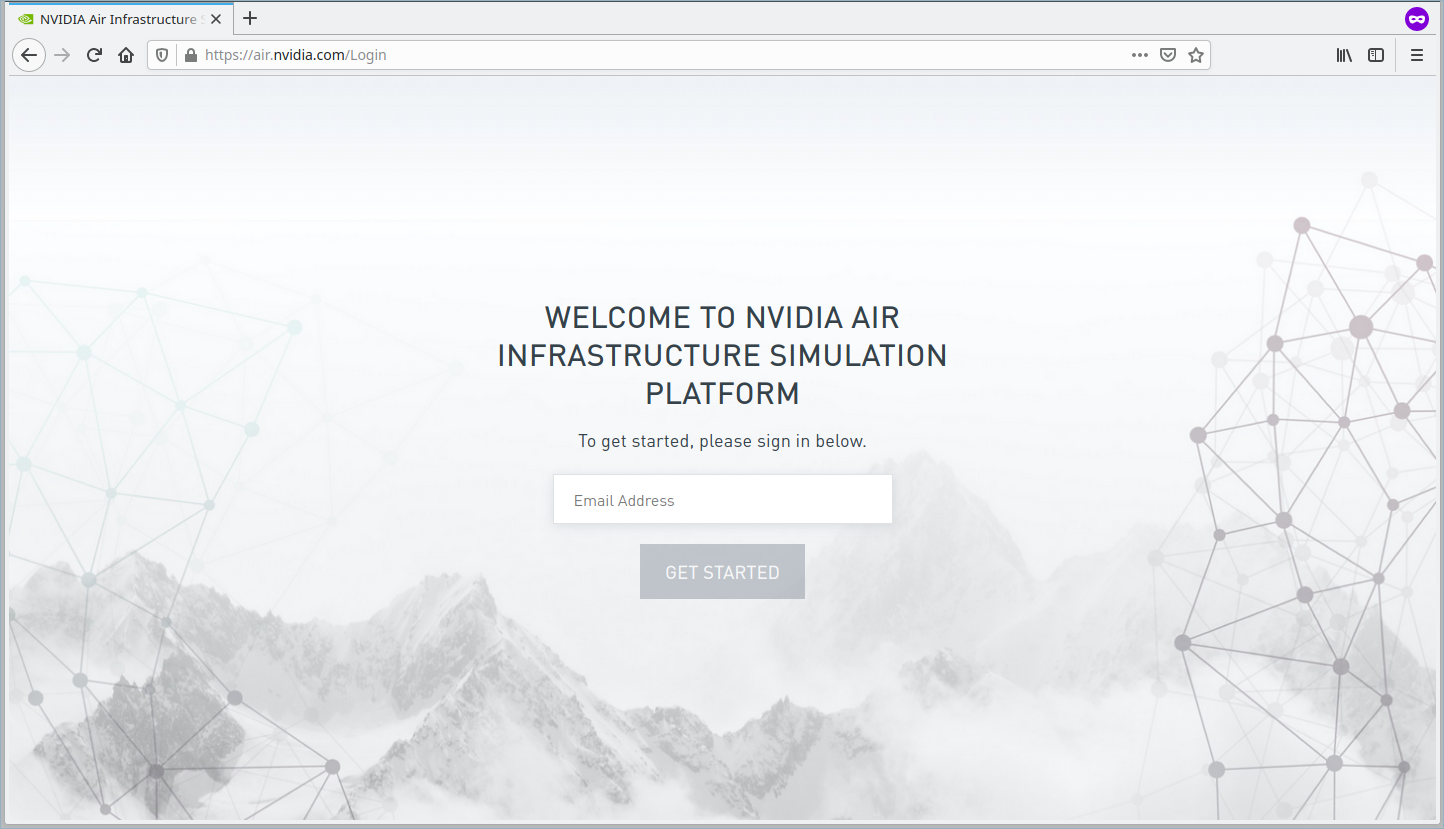
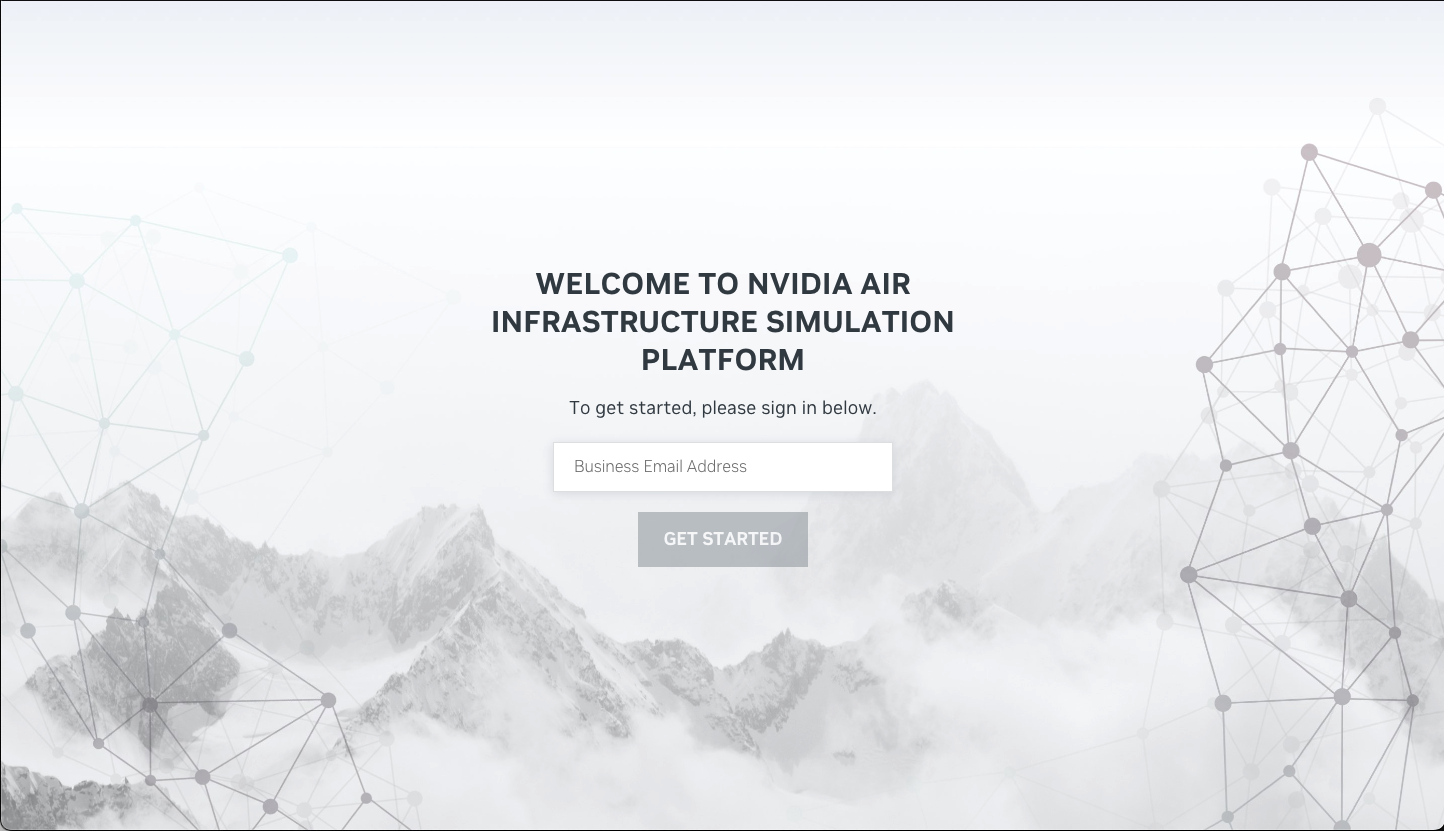
Update Air Quick Start to require business email

diff --git a/content/nvidia-air/Quick-Start.md b/content/nvidia-air/Quick-Start.md
@@ -11,8 +11,8 @@ This quick start provides the basics so that you can get started with the NVIDIA
 
 The following browsers are fully supported:
 
-- Google Chrome 91 or later
-- Mozilla Firefox 89 or later
+- Google Chrome 120 or later
+- Mozilla Firefox 121 or later
 
 The following browsers are supported on a best-effort basis:
 
@@ -21,11 +21,15 @@ The following browsers are supported on a best-effort basis:
 
 ## Login
 
-NVIDIA Air uses the same credentials as the NVIDIA developer forums for account access. To log in, go to {{<exlink url="https://air.nvidia.com" text="air.nvidia.com">}}. Enter the email address you use for the forums or the one you intend to use to sign up, then click **Get Started**:
+A valid business email address is required to access NVIDIA Air. To log in, go to {{<exlink url="https://air.nvidia.com" text="air.nvidia.com">}}. Enter your business email address, then click **Get Started**:
 
 {{<img src="/images/guides/nvidia-air/Login.png" alt="" width="800px">}}
 
-The page redirects you to the NVIDIA forums login page. Either click the **Create account** link to sign up or enter your password to log in with an existing account:
+{{%notice note%}}
+If your email address is not accepted as a valid business email address and you believe this to be incorrect, please contact us at {{<exlink url="mailto:air-support@nvidia.com" text="air-support@nvidia.com">}}
+{{%/notice%}}
+
+The page redirects you to the NVIDIA login page. Either click the **Create account** link to sign up or enter your password to log in with an existing account:
 
 {{<img src="/images/guides/nvidia-air/LoginForums.png" alt="" width="800px">}}
 
@@ -217,19 +221,12 @@ The SSH keys upload automatically to the oob-mgmt-server.
 
 ## Resource Budgets
 
-The number of simulation resources a user can consume is limited based on the user's account. For an account using a company email, a user is granted the following limits:
+The number of simulation resources a user can consume is limited for each user's account. For an account using a valid business email, a user is granted the following limits:
 
 - 60 vCPUs
 - 90GB memory
 - 650GB storage
 - 4 running simulations
-
-For an account using a non-company email, a user is granted the following limits:
-
-- 30 vCPUs
-- 55GB memory
-- 350GB storage
-- 1 running simulation
 
 NVIDIA users are granted the following limits:
 
